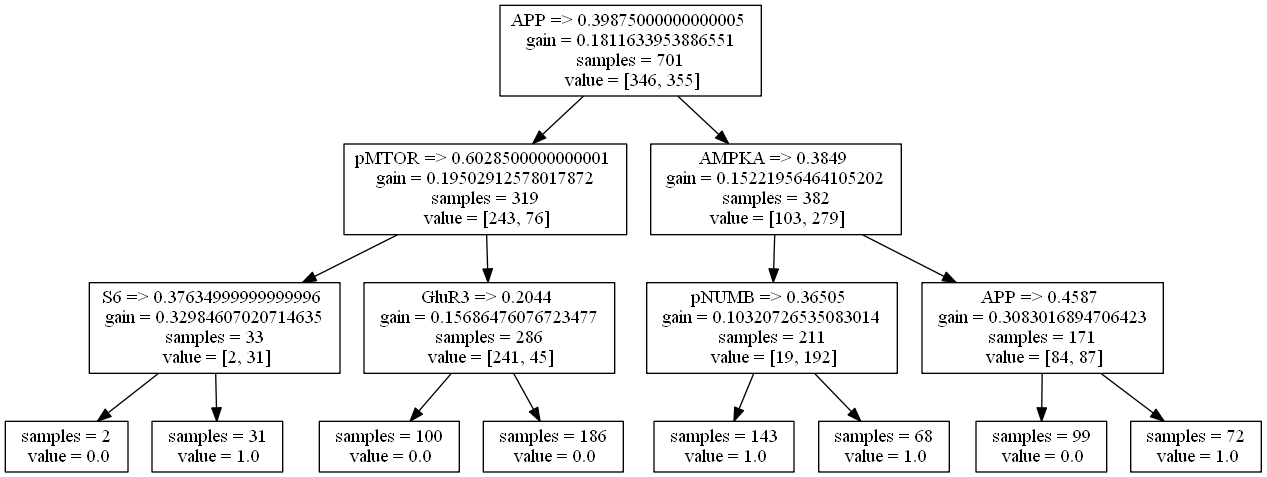
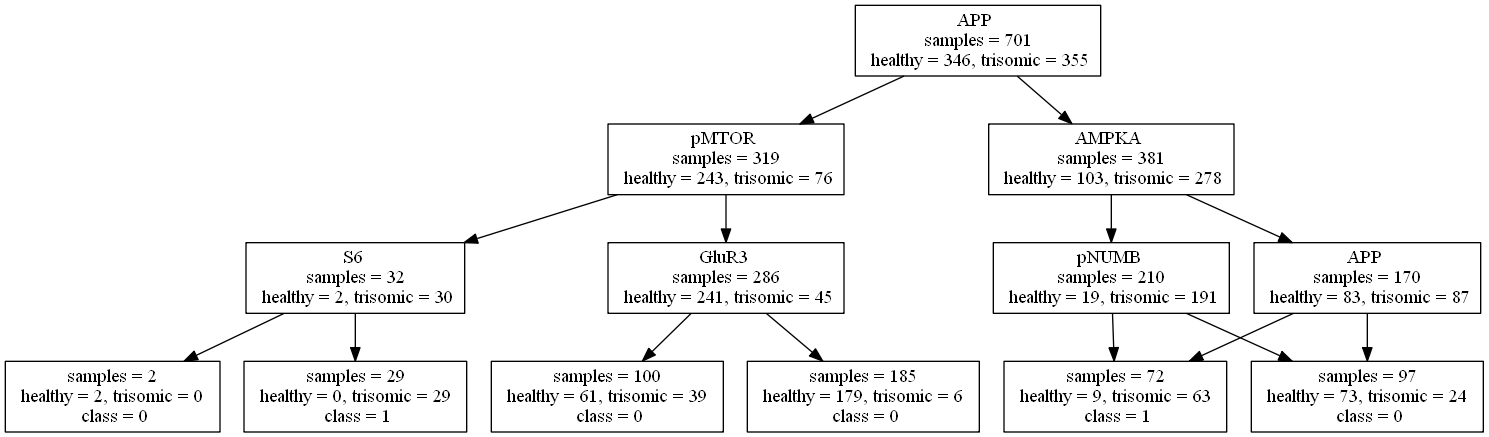
done, but wrong

Changed region(s): [[0.0, 0.0, 1.0, 1.0]]

diff --git a/module2.py b/module2.py
@@ -169,13 +169,13 @@ def traversal(current, position, tree_dot):
     if current['gene'] == 'leaf':
         tree_dot.attr('node', shape='box')
         name = 'leaf' + str(random.choice(string.ascii_lowercase + string.digits))
-        tree_dot.node(name, ''' samples = %(samples)d \n healthy = %(healthy)s, trisomic = %(trisomic) \n class = %(class)''' % {'samples': current['samples'],'healthy':current['value'][0], 'trisomic': current['value'][1], 'class':current['label']})
+        tree_dot.node(name, ''' samples = %(samples)d \n healthy = %(healthy)d, trisomic = %(trisomic)d \n class = %(class)d''' % {'samples': current['data samples'],'healthy':current['value'][0], 'trisomic': current['value'][1], 'class':current['label']})
         tree_dot.edge(position, name)
     
     else:
         tree_dot.attr('node', shape='box')
         name = current['gene'] + '_' + str(current['data samples'])
-        tree_dot.node(name = name, label = '''%(property_name)s \n samples = %(samples)d \n healthy = %(healthy)s, trisomic = %(trisomic)''' % {'property_name': current['gene'],'samples':current['data samples'],'healthy':current['value'][0], 'trisomic': current['value'][1]})
+        tree_dot.node(name = name, label = '''%(property_name)s \n samples = %(samples)d \n healthy = %(healthy)d, trisomic = %(trisomic)d''' % {'property_name': current['gene'],'samples':current['data samples'],'healthy':current['value'][0], 'trisomic': current['value'][1]})
         
         if position != 'root':
             tree_dot.edge(position, name)
